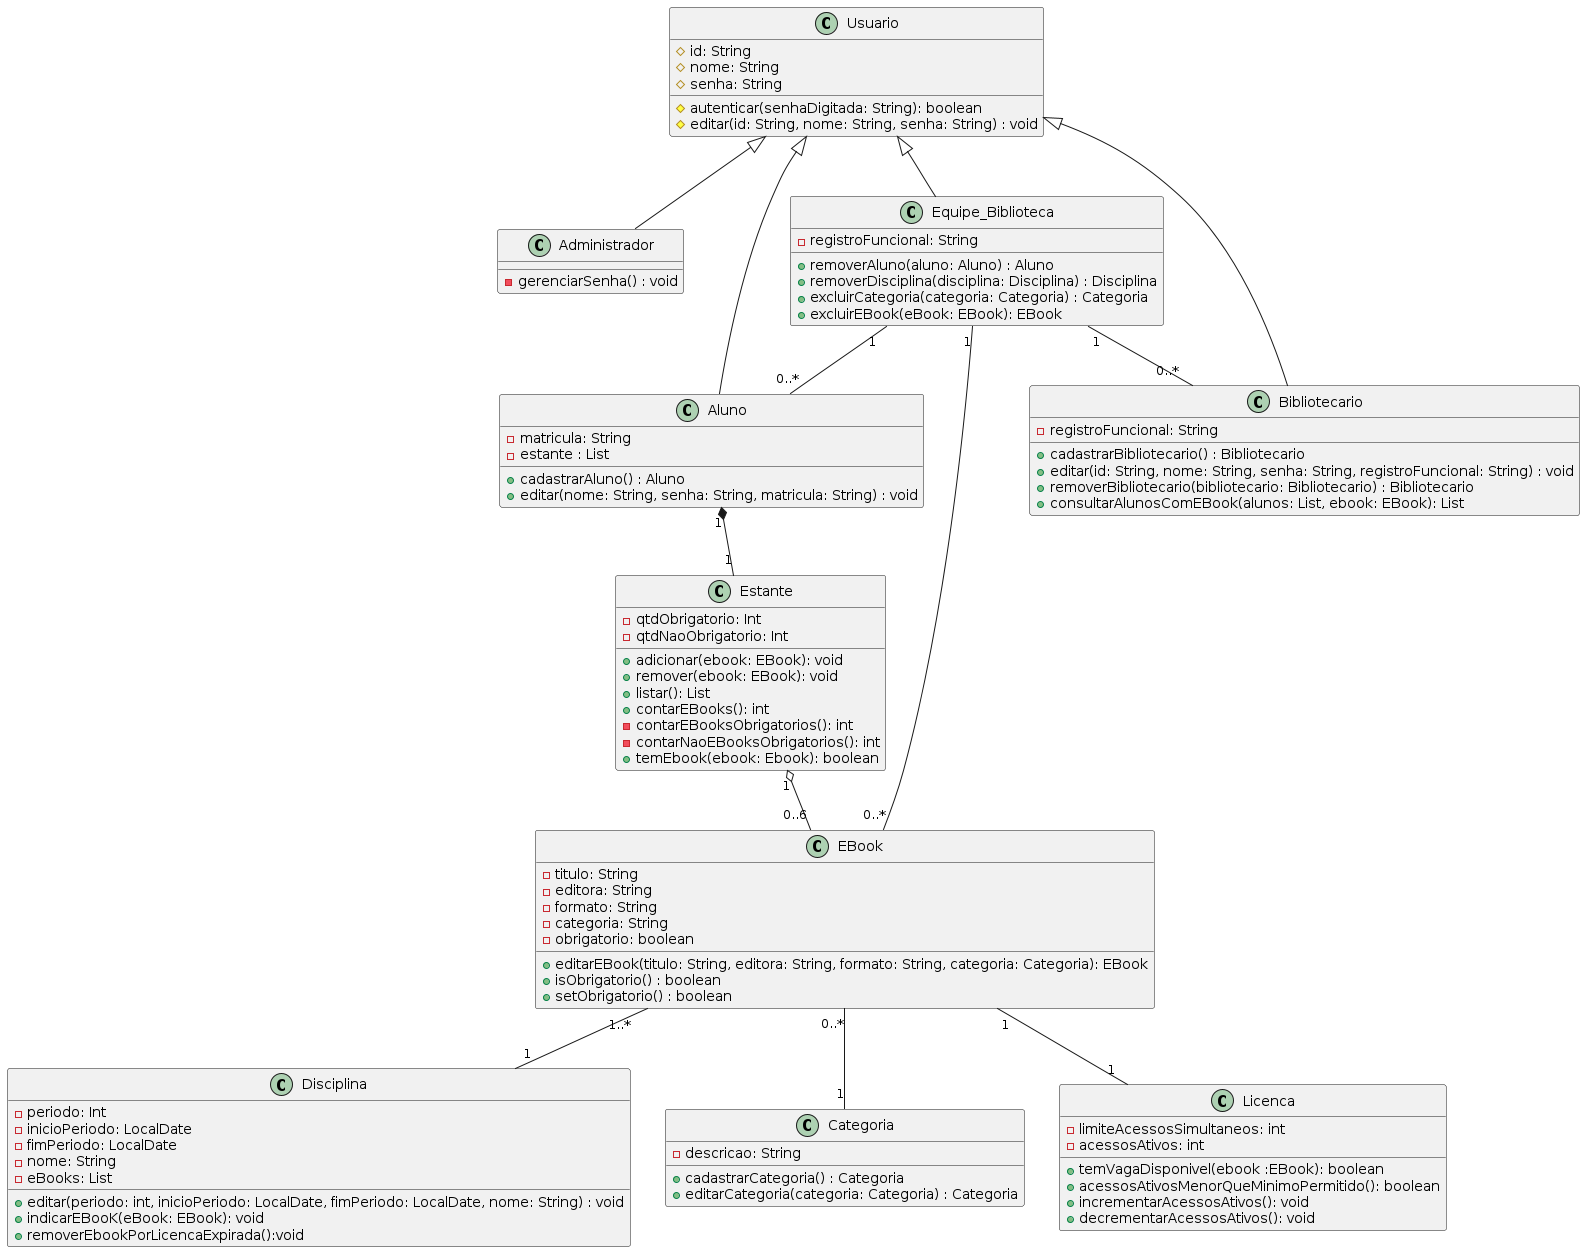
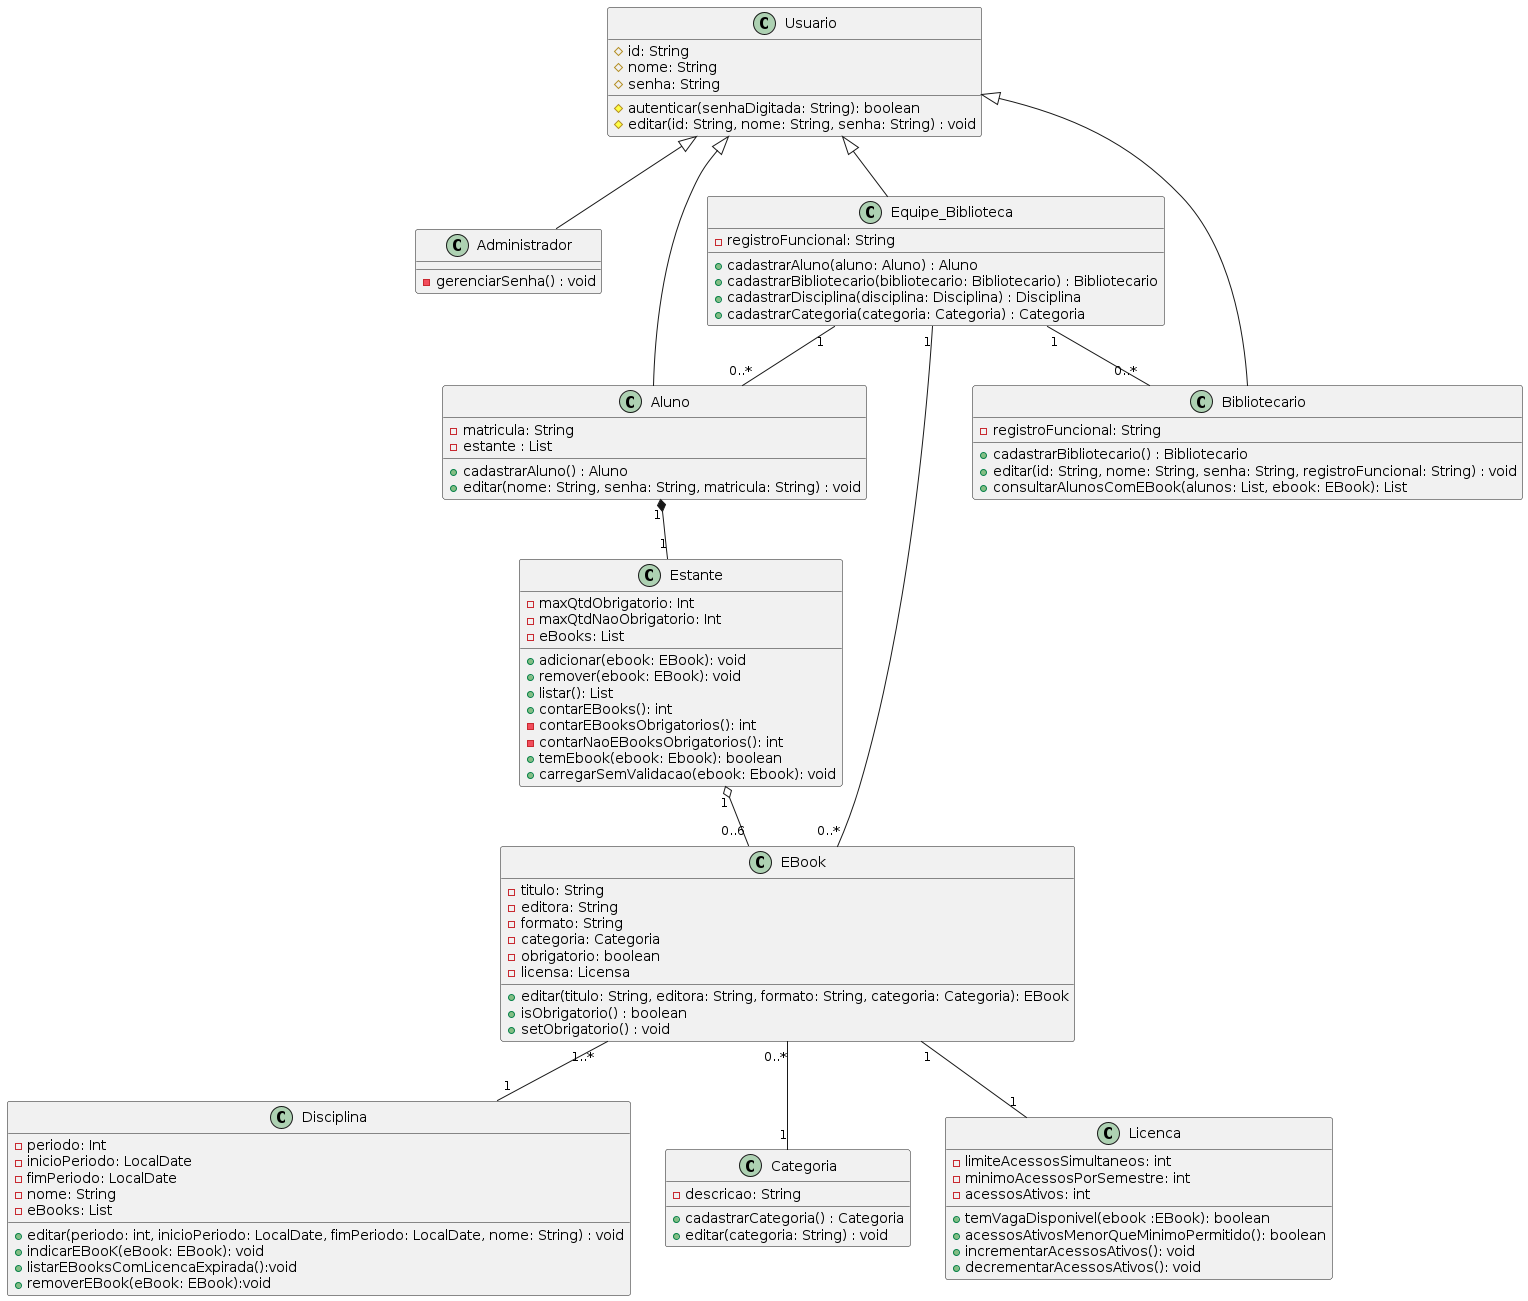
feat: refatora classe EquipeBiblioteca para simplificar cadastro de alunos e bibliotecários, e atualiza diagrama de classes

Changed region(s): [[0.2768, 0.0, 1.0, 0.6853], [0.0, 0.6542, 0.892, 0.9968], [0.2768, 0.1558, 0.4306, 0.2492]]

diff --git a/codigo/src/br/edu/pucminas/biblioteca/modelo/EquipeBiblioteca.java b/codigo/src/br/edu/pucminas/biblioteca/modelo/EquipeBiblioteca.java
@@ -1,16 +1,8 @@
 package br.edu.pucminas.biblioteca.modelo;
 
-import java.util.LinkedList;
-import java.util.List;
-import java.util.NoSuchElementException;
-
 public class EquipeBiblioteca extends Usuario {
- 
+
     private String registroFuncional;
-    private static final List<Aluno> alunos = new LinkedList<>();
-    private static final List<Bibliotecario> bibliotecarios = new LinkedList<>();
-    private static final List<Disciplina> disciplinas = new LinkedList<>();
-    private static final List<Categoria> categorias = new LinkedList<>();
 
     public EquipeBiblioteca(String nome, String senha, String registroFuncional) {
         super(nome, senha);
@@ -20,82 +12,22 @@ public class EquipeBiblioteca extends Usuario {
     }
 
     public Aluno cadastrarAluno(String nome, String senha, String matricula) {
-        Aluno aluno = new Aluno(nome, senha, matricula);
-        alunos.add(aluno);
-        return aluno;
-    }
-
-    public Aluno editarAluno(Aluno aluno, String nome, String matricula) {
-        if (!alunos.contains(aluno))
-            throw new NoSuchElementException("Aluno não encontrado");
-        aluno.editar(nome, matricula);
-        return aluno;
-    }
-
-    public Aluno removerAluno(Aluno aluno) {
-        if (!alunos.remove(aluno))
-            throw new NoSuchElementException("Aluno não encontrado ou já removido");
-        return aluno;
+        return new Aluno(nome, senha, matricula);
     }
 
     public Bibliotecario cadastrarBibliotecario(String nome, String senha, String registroFuncional) {
-        Bibliotecario bibliotecario = new Bibliotecario(nome, senha, registroFuncional);
-        bibliotecarios.add(bibliotecario);
-        return bibliotecario;
-    }
-
-    public Bibliotecario editarBibliotecario(Bibliotecario bibliotecario, String nome, String senha, String registroFuncional) {
-        if (!bibliotecarios.contains(bibliotecario))
-            throw new NoSuchElementException("Bibliotecario não encontrado");
-        bibliotecario.editar(nome, senha, registroFuncional);
-        return bibliotecario;
-    }
-
-    public Bibliotecario removerBibliotecario(Bibliotecario bibliotecario) {
-        if (!bibliotecarios.remove(bibliotecario))
-            throw new NoSuchElementException("Bibliotecario não encontrado ou já removido");
-        return bibliotecario;
+        return new Bibliotecario(nome, senha, registroFuncional);
     }
 
     public Disciplina cadastrarDisciplina(Disciplina disciplina) {
         if (disciplina == null)
             throw new IllegalArgumentException("Disciplina não pode ser nula");
-        disciplinas.add(disciplina);
         return disciplina;
     }
-
-    public Disciplina editarDisciplina(Disciplina disciplina, int periodo, java.time.LocalDate inicioPeriodo,
-                                        java.time.LocalDate fimPeriodo, String nome) {
-        if (!disciplinas.contains(disciplina))
-            throw new NoSuchElementException("Disciplina não encontrada");
-        disciplina.editar(periodo, inicioPeriodo, fimPeriodo, nome);
-        return disciplina;
-    }
-
-    public Disciplina removerDisciplina(Disciplina disciplina) {
-        if (!disciplinas.remove(disciplina))
-            throw new NoSuchElementException("Disciplina não encontrada ou já removida");
-        return disciplina;
-    }
-
 
     public Categoria cadastrarCategoria(Categoria categoria) {
         if (categoria == null)
             throw new IllegalArgumentException("Categoria não pode ser nula");
-        categorias.add(categoria);
-        return categoria;
-    }
-
-    public Categoria editarCategoria(Categoria categoria, String descricao) {
-        if (!categorias.contains(categoria))
-            throw new NoSuchElementException("Categoria não encontrada");
-        categoria.editar(descricao);
-        return categoria;
-    }
-
-    public Categoria removerCategoria(Categoria categoria) {
-        if (!categorias.remove(categoria))
-            throw new NoSuchElementException("Categoria não encontrada ou já removida");
         return categoria;
     }
 

diff --git a/codigo/src/br/edu/pucminas/biblioteca/modelo/Estante.java b/codigo/src/br/edu/pucminas/biblioteca/modelo/Estante.java
@@ -75,6 +75,13 @@ public class Estante {
         return false;
     }
 
+    /**
+     * Adiciona um eBook diretamente a estante, sem validar limites de cota
+     * ou disponibilidade de licenca, e sem incrementar o contador de acessos
+     * ativos da licenca. Uso exclusivo para reconstrucao do estado a partir
+     * de dados persistidos, onde essas validacoes ja ocorreram no momento do
+     * cadastro original.
+     */
     public void carregarSemValidacao(Ebook ebook) {
         eBooks.add(ebook);
     }

diff --git a/codigo/src/br/edu/pucminas/biblioteca/persistencia/EstanteRepositorioArquivo.java b/codigo/src/br/edu/pucminas/biblioteca/persistencia/EstanteRepositorioArquivo.java
@@ -2,7 +2,6 @@ package br.edu.pucminas.biblioteca.persistencia;
 
 import br.edu.pucminas.biblioteca.modelo.Aluno;
 import br.edu.pucminas.biblioteca.modelo.Ebook;
-
 import java.io.*;
 import java.util.List;
 
